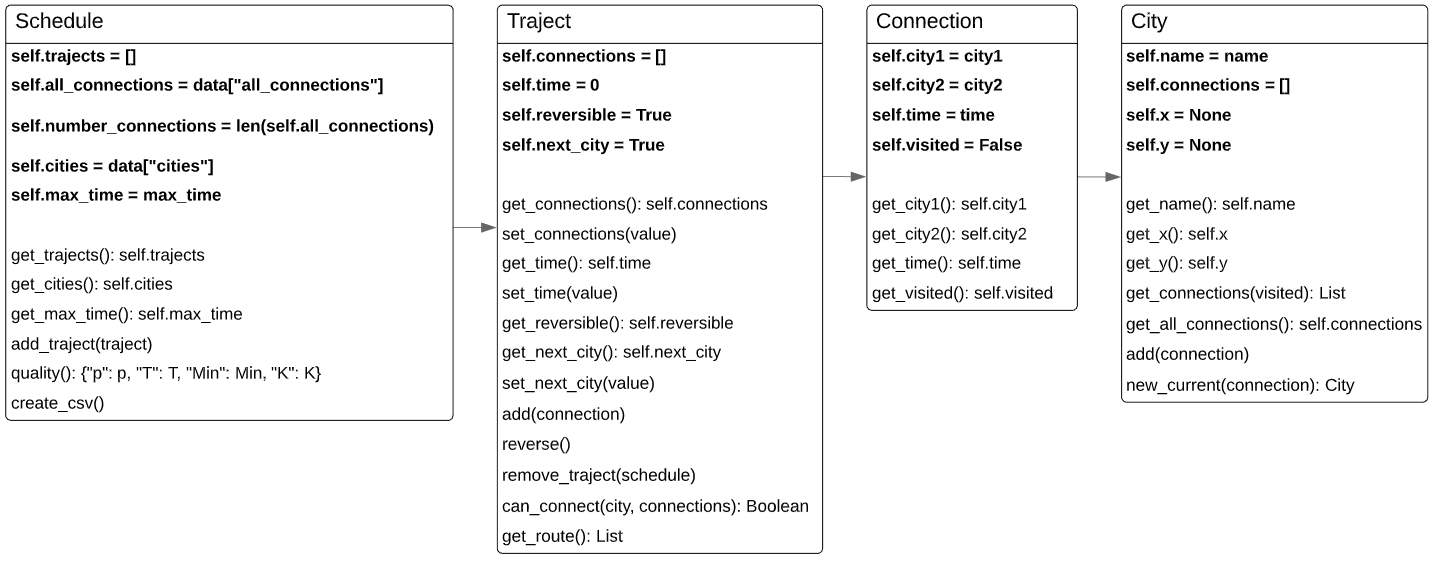
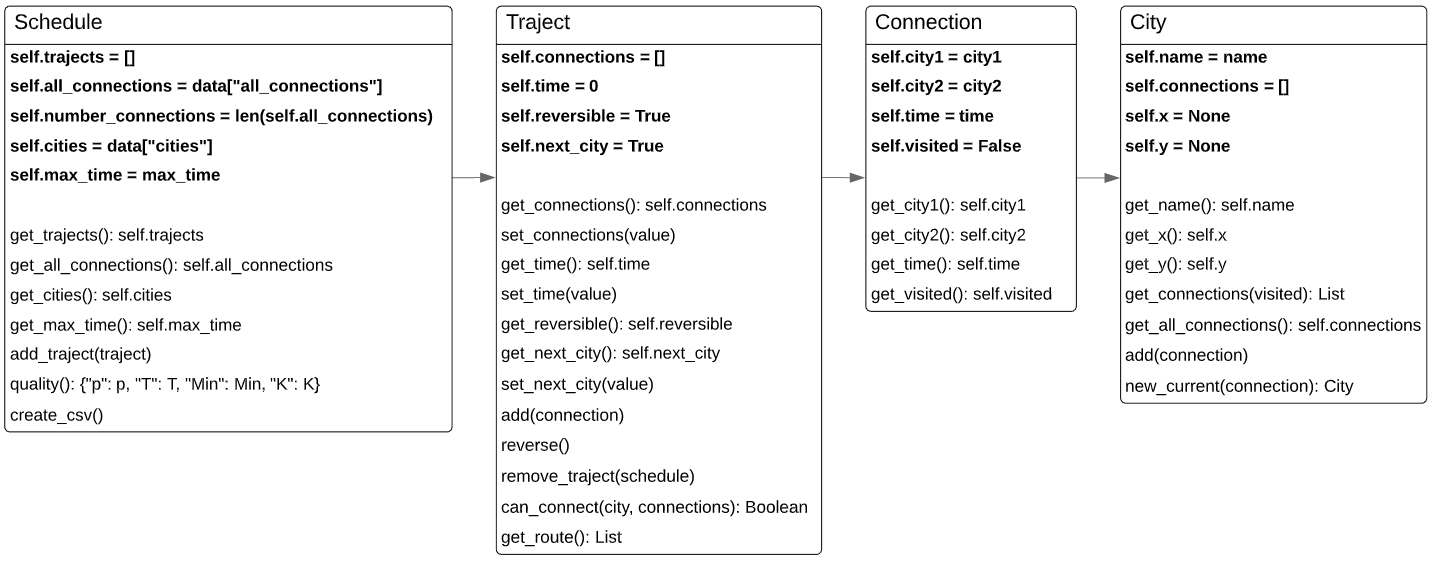
opschonen

diff --git a/code/output/visualisation.py b/code/output/visualisation.py
@@ -25,6 +25,30 @@ def visualisation(schedule):
     points = []
     lines = {}
 
+    connections = []
+    [connections.extend(connection) for connection in \
+    [traject.get_connections() for traject in schedule.get_trajects()]]
+
+    for connection in schedule.get_all_connections():
+        
+        # Plot every connection in lightgrey
+        ax.plot([connection.city1.get_y(), connection.city2.get_y()],
+                [connection.city1.get_x(), connection.city2.get_x()],
+                color="lightgrey", zorder=1)
+
+        # Remember every city
+        points.append(ax.scatter(connection.city1.get_y(), connection.city1.get_x(),
+                                 color="blue", zorder=3, label=connection.city1.get_name()))
+
+        points.append(ax.scatter(connection.city2.get_y(), connection.city2.get_x(),
+                                 color="blue", zorder=3, label=connection.city2.get_name()))
+
+        # Plot red dashed line when connection is removed from schedule
+        if connection not in connections:
+            ax.plot([connection.city1.get_y(), connection.city2.get_y()],
+                    [connection.city1.get_x(), connection.city2.get_x()],
+                    "r--", zorder=1)
+
     for i, traject in enumerate(trajects):
         route = traject.get_route()
         label = f"{route[0].get_name()} -> {route[-1].get_name()} ({traject.get_time()})"
@@ -38,18 +62,6 @@ def visualisation(schedule):
                                         [connection.city1.get_x(), connection.city2.get_x()],
                                         visible=False, label=label,
                                         color=matplotlib.colors.hsv_to_rgb([color, 1, 1]), zorder=2))
-
-            # Plot every connection in lightgrey
-            ax.plot([connection.city1.get_y(), connection.city2.get_y()],
-                    [connection.city1.get_x(), connection.city2.get_x()],
-                    color="lightgrey", zorder=1)
-
-            # Remember every city
-            points.append(ax.scatter(connection.city1.get_y(), connection.city1.get_x(),
-                                     color="blue", zorder=3, label=connection.city1.get_name()))
-
-            points.append(ax.scatter(connection.city2.get_y(), connection.city2.get_x(),
-                                     color="blue", zorder=3, label=connection.city2.get_name()))
 
     # For showing the score
     quality = schedule.quality()

diff --git a/code/classes/classes.py b/code/classes/classes.py
@@ -71,6 +71,8 @@ class Connection:
         """ Returns visited of connection. """
         return self.visited
 
+    def __repr__(self):
+        return f"{self.city2.name}-{self.city1.name}"
 
 class Traject:
     def __init__(self):
@@ -125,7 +127,7 @@ class Traject:
     def can_connect(self, city, connections):
         """ Checks if given city is at the edge of traject. """
         route = self.get_route()
-        if (city == route[0] or city == route[-1]): 
+        if (city == route[0] or city == route[-1]):
             return True
         return False
 
@@ -159,6 +161,10 @@ class Schedule:
     def get_trajects(self):
         """ Returns all trajects in schedule. """
         return self.trajects
+
+    def get_all_connections(self):
+        """ Returns all possible connections in schedule. """
+        return self.all_connections
 
     def get_cities(self):
         """ Returns all cities in schedule. """

diff --git a/main.py b/main.py
@@ -18,16 +18,16 @@ from output import run, load
 from visualisation import visualisation
 from heuristic import Heuristic
 
-# CONNECTIONS_FILE = "data/ConnectiesNationaal.csv"
-# COORDINATES_FILE = "data/StationsNationaal.csv"
-# BEST_SCHEDULE_FILE = "results/Nederland"
-
-CONNECTIONS_FILE = "data/ConnectiesHolland.csv"
+CONNECTIONS_FILE = "data/ConnectiesNationaal.csv"
 COORDINATES_FILE = "data/StationsNationaal.csv"
-BEST_SCHEDULE_FILE = "results/Holland"
+BEST_SCHEDULE_FILE = "results/Nederland"
+
+# CONNECTIONS_FILE = "data/ConnectiesHolland.csv"
+# COORDINATES_FILE = "data/StationsNationaal.csv"
+# BEST_SCHEDULE_FILE = "results/Holland"
 
 # Amount of iterations
-N = 100
+N = 1
 
 # Maximum time of a traject
 MIN_180 = 180
